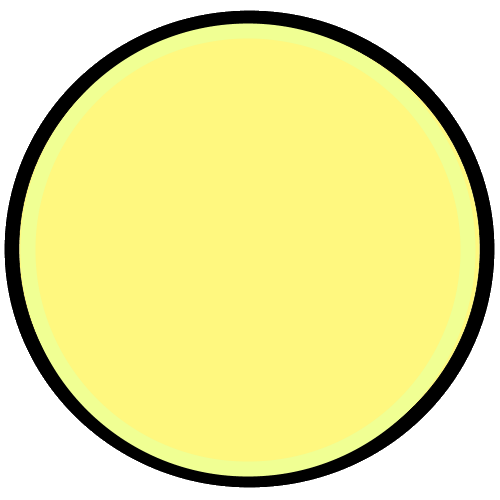
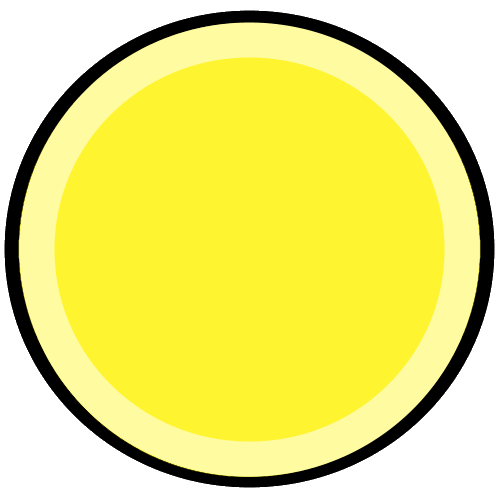
added night/day modes

diff --git a/CastleBridge/CastleBridge/Map/Weather/Weather.cs b/CastleBridge/CastleBridge/Map/Weather/Weather.cs
@@ -11,16 +11,18 @@ namespace CastleBridge {
         private TimeType TimeType;
         private Image Sun;
         private Image Moon;
+        private Image DaySky;
+        private Image NightSky;
         private Image CurrentPlanet;
-        private Image Sky;
+        private Image CurrentSky;
         private List<Cloud> Clouds;
         private Random Rnd;
         private bool IsRain;
         public Weather(TimeType timeType, bool isRain) {
 
-            TimeType = timeType;
             IsRain = isRain;
             Init();
+            SetTime(timeType);
         }
 
         public void Update() {
@@ -49,16 +51,24 @@ namespace CastleBridge {
             Sun = new Image("map/sun", "sun_0", CastleBridge.Graphics.PreferredBackBufferWidth / 2 - 75, 0, 150, 150, Color.White);
             Moon = new Image("map/moon", "moon_0", CastleBridge.Graphics.PreferredBackBufferWidth / 2 - 75, 0, 150, 150, Color.White);
 
+            DaySky = new Image("map/sky", "day", 0, 0, CastleBridge.Graphics.PreferredBackBufferWidth, CastleBridge.Graphics.PreferredBackBufferHeight, Color.White);
+            NightSky = new Image("map/sky", "night", 0, 0, CastleBridge.Graphics.PreferredBackBufferWidth, CastleBridge.Graphics.PreferredBackBufferHeight, Color.White);
+        }
+
+        public void SetTime(TimeType timeType) {
+
+            TimeType = timeType;
+
             switch (TimeType) {
                 case TimeType.Day:
                     CurrentPlanet = Sun;
+                    CurrentSky = DaySky;
                     break;
                 case TimeType.Night:
                     CurrentPlanet = Moon;
+                    CurrentSky = NightSky;
                     break;
             }
-
-            Sky = new Image("map/sky", "sky", 0, 0, CastleBridge.Graphics.PreferredBackBufferWidth, CastleBridge.Graphics.PreferredBackBufferHeight, Color.White);
         }
 
 
@@ -66,7 +76,7 @@ namespace CastleBridge {
             return Clouds;
         }
         public Image GetSky() {
-            return Sky;
+            return CurrentSky;
         }
         public Image GetSun() {
             return Sun;
@@ -78,7 +88,7 @@ namespace CastleBridge {
                 cloud.Draw();
         }
         public void DrawStuck() {
-            Sky.Draw();
+            CurrentSky.Draw();
             CurrentPlanet.Draw();
         }
     }
